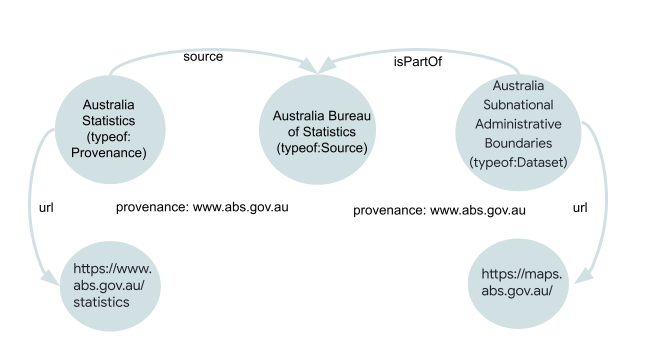
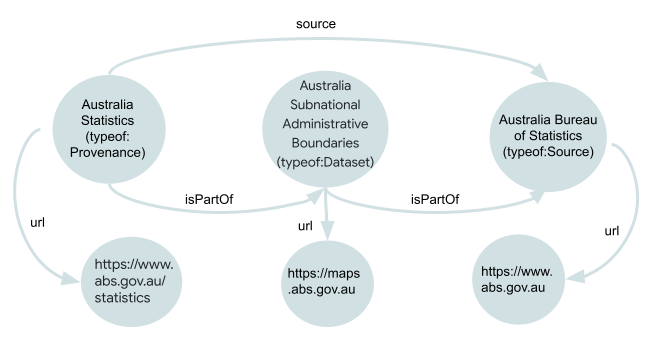
Correct definition of provenance and add 3 items to the glossary

Changed region(s): [[0.0, 0.0593, 0.9831, 0.9792], [0.1229, 0.1484, 0.2458, 0.2374], [0.0922, 0.2374, 0.1229, 0.2671]]

diff --git a/data_model.md b/data_model.md
@@ -154,12 +154,13 @@ Time series made up of many observations underlie the data available in the [Tim
 ![Timeline Explorer]({{site.url}}/assets/images/dc/concept11.png){: width="900"}
 
 ## Provenance, Source, Dataset
+{: #sources}
 
 Every node and triple also have some important properties that indicate the origin of the data. 
 
--  [`Provenance`](https://datacommons.org/browser/Provenance){: target="_blank"}: All triples have a provenance, typically the URL of the data provider's website; for example, [www.abs.gov.au](https://datacommons.org/browser/dc/base/AustraliaStatistics){: target="_blank"}.  In addition, all entity types also have a provenance, defined with a DCID, such as [`AustraliaStatistics`](https://datacommons.org/browser/dc/base/AustraliaStatistics){: target="_blank"}. (For many property types, which are defined by the Data Commons schema, their provenance is always datacommons.org.)
--  [`Source`](https://datacommons.org/browser/Source){: target="_blank"}: This is a property of a provenance, and a dataset, usually the name of an organization that provides the data or the schema. For example, for provenance [www.abs.gov.au](www.abs.gov.au), the source is the [Australian Bureau of Statistics](https://datacommons.org/browser/dc/s/AustralianBureauOfStatistics){: target="_blank"}.
--  [`Dataset`](https://datacommons.org/browser/Dataset){: target="_blank"}: This is the name of a specific dataset provided by a provider. Many sources provide multiple datasets. For example, the source Australian Bureau of Statistics provides two datasets, [Australia Statistics](https://datacommons.org/browser/dc/d/AustralianBureauOfStatistics_AustraliaStatistics){: target="_blank"} (not to be confused with the provenance above), and [Australia Subnational Administrative Boundaries](https://datacommons.org/browser/dc/d/AustralianBureauOfStatistics_AustraliaSubnationalAdministrativeBoundaries){: target="_blank"}.
+-  [`Source`](https://datacommons.org/browser/Source){: target="_blank"}: This is the organization that provides the data, and is usually specified as the name of the organization; for example, [Australian Bureau of Statistics](https://datacommons.org/browser/dc/s/AustralianBureauOfStatistics){: target="_blank"} A source has a `domain`, e.g. `abs.gov.au` and a `url`, e.g. `https://www.abs.gov.au/`.
+-  [`Dataset`](https://datacommons.org/browser/Dataset){: target="_blank"}: This is the name of a specific dataset provided by a provider. In relational database terminology, `dataset` roughly corresponds to a "database". Many sources provide multiple datasets. For example, the source Australian Bureau of Statistics provides two datasets, [Australia Statistics](https://datacommons.org/browser/dc/d/AustralianBureauOfStatistics_AustraliaStatistics){: target="_blank"}, and [Australia Subnational Administrative Boundaries](https://datacommons.org/browser/dc/d/AustralianBureauOfStatistics_AustraliaSubnationalAdministrativeBoundaries){: target="_blank"}. A dataset also has a URL, e.g. `https://maps.abs.gov.au/`.
+-  [`Provenance`](https://datacommons.org/browser/Provenance){: target="_blank"}: A provenance is a subset of a dataset. For small datasets, it may represent the entire dataset. For example, Australia Statistics is both a dataset (https://datacommons.org/browser/dc/d/AustralianBureauOfStatistics_AustraliaStatistics) and a provenance (https://datacommons.org/browser/dc/base/AustraliaStatistics). For larger datasets, it usually represents a subset of the dataset, roughly corresponding to a "table" in relational database terminology. There many be several provenances for a given dataset. For example, [Brazil VIS DATA 3](https://datacommons.org/browser/dc/d/BrazilMinistryOfDevelopmentAndSocialAssistanceFamilyAndFightAgainstHunger_BrazilVisData3){: target="_blank"} is a dataset that comprises 2 provenances: [Brazil Food Distribution](https://datacommons.org/browser/dc/base/Brazil_FoodDsitribution){: target="_blank"} and [Brazil Rural Development Program](https://datacommons.org/browser/dc/base/Brazil_RuralDevelopmentProgram){: target="_blank"}.
 
 ![Knowledge graph]({{site.url}}/assets/images/dc/concept12.png){: width="600"}
 

diff --git a/glossary.md b/glossary.md
@@ -23,6 +23,11 @@ This page contains a selection of key terms important to understanding the struc
 
 The date of measurement. Specified in ISO 8601 format. Examples include `2011` (the year 2011), `2019-06` (the month of June in the year 2019), and `2019-06-05T17:21:00-06:00` (5:17PM on June 5, 2019, in CST).
 
+### [Dataset](https://datacommons.org/browser/Dataset){: target="_blank"}
+{: #dataset}
+
+A collection of data, provided by a [source](#source). For example, [Brazil Census](https://datacommons.org/browser/dc/d/BrazilianInstituteOfGeographyAndStatisticsIbge_BrazilCensus){: target="_blank"} is a dataset provided by the source Brazilian Institute of Geography and Statistics. See [Key concepts](data_model.md#sources) for more details.
+
 ### DCID
 {: #dcid}
 
@@ -75,12 +80,21 @@ When a variable has values from multiple [facets](#facet), one facet is designat
 
 Attributes of the entities in the Data Common knowledge graph. Instead of statistical values, properties describe unchanging characteristics of entities, like [scientific name](https://datacommons.org/browser/scientificName){: target="_blank"}.
 
+### [Provenance](https://datacommons.org/browser/Provenance){: target="_blank"}
+
+A subset of data in a [dataset](#dataset). For small datasets, the provenance may represent the entire dataset. Larger datasets may comprise mulltiple provenances. See [Key concepts](data_model.md#sources) for more details.
+
 ### [Scaling Factor](https://datacommons.org/browser/scalingFactor){: target="_blank"}
 {: #scaling-factor}
 
 Property of [variables](#variable) that measure proportions, used in conjunction with the measurementDenominator property to indicate the multiplication factor applied to the proportion's denominator (with the measurement value as the final result of the multiplication) when the numerator and denominator are not equal.
 
 As an example, in 1999, [approximately 36% of Canadians were Internet users](https://datacommons.org/browser/dc/o/0d9e3dd3y6yt3){: target="_blank"}. Here the measured value of `Count_Person_IsInternetUser_PerCapita` is 36, and the scaling factor or denominator for this per capita measurement is 100. Without the scaling factor, we would interpret the value to be 36/1, or 3600%.
+
+### [Source](https://datacommons.org/browser/Source){: target="_blank"}
+{: #source}
+
+The provider of a dataset, usually an organization or agency. For example, [Brazilian Institute of Geography and Statistics](https://datacommons.org/browser/dc/s/BrazilianInstituteOfGeographyAndStatisticsIbge) is a source that provides census and statistical datasets. See [Key concepts](data_model.md#sources) for more details.
 
 ### [Statistical Variable](https://datacommons.org/browser/StatisticalVariable){: target="_blank"}
 {: #variable}
